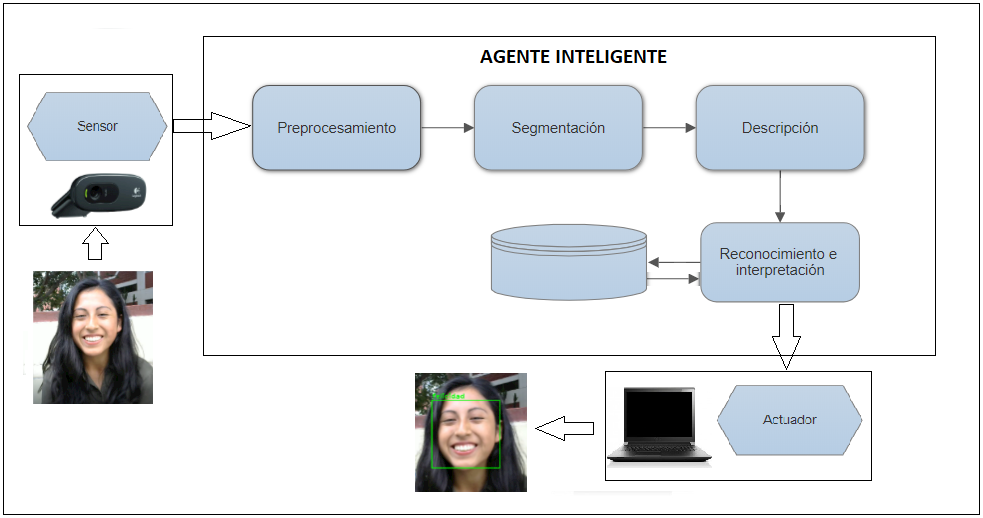
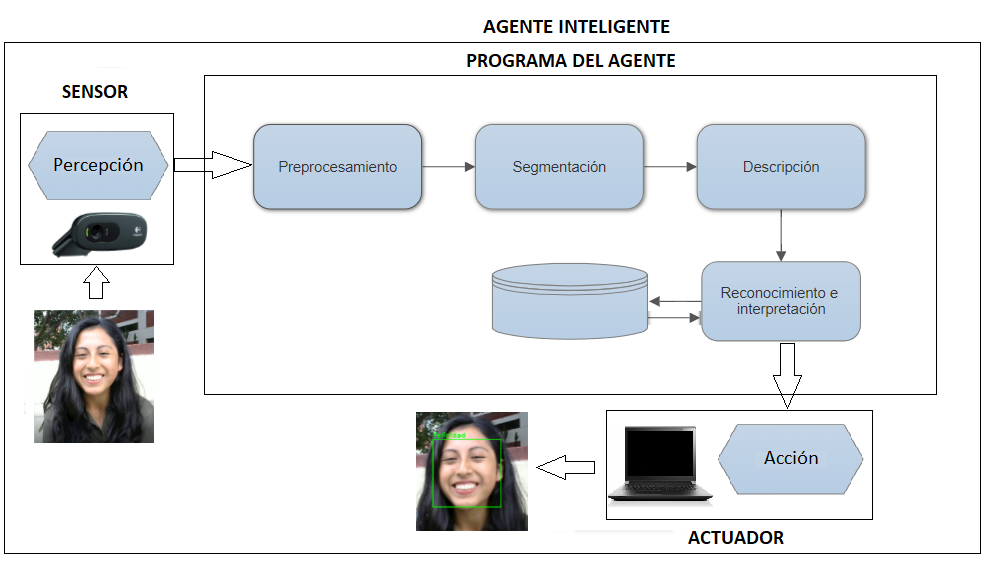
add diagrama de flujo

Changed region(s): [[0.0, 0.0309, 1.0, 0.8031], [0.2136, 0.6486, 0.9461, 0.9266], [0.0, 0.9266, 1.0, 1.0]]

diff --git a/CAPs.TEX b/CAPs.TEX
@@ -1216,7 +1216,8 @@ El programa se encarga de descomponer y analizar la secuencia de imágenes, real
 \item[•] Reconocimiento e interpretación
 \end{itemize}
 
-\subsection{Diseño del agente inteligente}
+
+\section{Diseño del agente inteligente}
 Teniendo en cuenta todos los elementos vistos en los puntos anteriores podemos proseguir con el diseño de nuestro agente inteligente, el cual mediante el sensor (cámara) percibe las secuencias dinámicas de imágenes con expresiones faciales, las evalúa según los pasos de visión artificial y muestra en la pantalla del actuador (computador) la expresión reconocida. para una mejor visualización podemos observar la figura 3.1.
 
 \begin{figure}[ht]
@@ -1232,7 +1233,6 @@ Teniendo en cuenta todos los elementos vistos en los puntos anteriores podemos p
 
 \vskip 3cm
 
-\section{Clasificación de algoritmos}
 En cada etapa del diseño vamos a ver distintos criterios que usaremos para evaluar tanto en la parte de las cámaras como en los algoritmos del programa para el agente. El criterio de evaluación para los procesos está basado en una escala del 0 al 5.
 
 \begin{table}[ht!]
@@ -1248,9 +1248,8 @@ No aplica & Malo & Regular & Normal & Bueno & Muy bueno \\ \hline
 \end{table}
 \vskip 3cm
 
-\begin{itemize}
-\item[•] {\bf Arquitectura:} \vskip 0.1cm
-{\bf Sensores} \vskip 0.1cm
+\subsection{Sensor}
+
 La percepción del entorno se hace a través de una cámara web, en la sección 2.4.1 vemos distintos tipos de cámaras y los criterios que vamos a evaluar, esto lo podemos expresar en la siguiente tabla:
 
 \begin{table}[h!]
@@ -1274,10 +1273,9 @@ Zoom digital & 5 & 5 & 3 \\ \hline
 
 De acuerdo a los resultados de la comparación decidimos utilizar la cámara web {\bf Hd Logitech C270.}
 \vskip 0.1cm
-{\bf Actuadores:} \vskip 0.1cm
-La salida se mostrará en el monitor del computador, indicando si fue reconocido la expresión facial.
 
-\item[•] {\bf Programa del agente:} \vskip 0.1cm
+\subsection{Programa del agente}
+
 Las etapas del proceso de visión computacional que se aplicó sobre la secuencia dinámica de imágenes presentada en la sección 2.4, son comparadas y se escogió al más adecuado para el reconocimiento, todo ello se presenta a continuación.
 
 \begin{enumerate}
@@ -1373,8 +1371,6 @@ Cantidad de píxeles en el objeto & 3 & 4 & 3 \\ \hline
 
 En base a los resultados obtenidos, la técnica de descripción que se debería emplear es el Patrón binario local (LBP).
 
-\vskip 3cm
-
 {\bf \item Reconocimiento e interpretación:}
 
 \begin{table}[h!]
@@ -1395,7 +1391,27 @@ Eficiencia reconocimiento & 3 & 4 & 3 \\ \hline
 \end{table}
 
 \end{enumerate}
-\end{itemize}
+
+
+\subsection{Actuador}
+
+La salida se mostrará en pantalla del monitor de la computadora del agente, indicando si fue reconocido la expresión facial.
+
+\subsection{Diagrama de flujo del diseño del agente inteligente}
+
+Luego de comparar y seleccionar tanto el sensor, actuador y los algoritmos del programa del agente inteligente recopilamos los resultados y estructuramos el siguiente diagrama de flujo:
+
+\begin{figure}[ht]
+\begin{center}
+\includegraphics[width=0.9\textwidth]{diagrama2}
+\end{center}
+\begin{center}
+\vskip -0.5cm
+\caption{\small{Diagrama de flujo del agente inteligente.}}
+{\small{Fuente: Elaboración propia.}}
+\end{center}
+\end{figure}
+
 
 
 \chapter{Resultados y discusión de la tesis}
